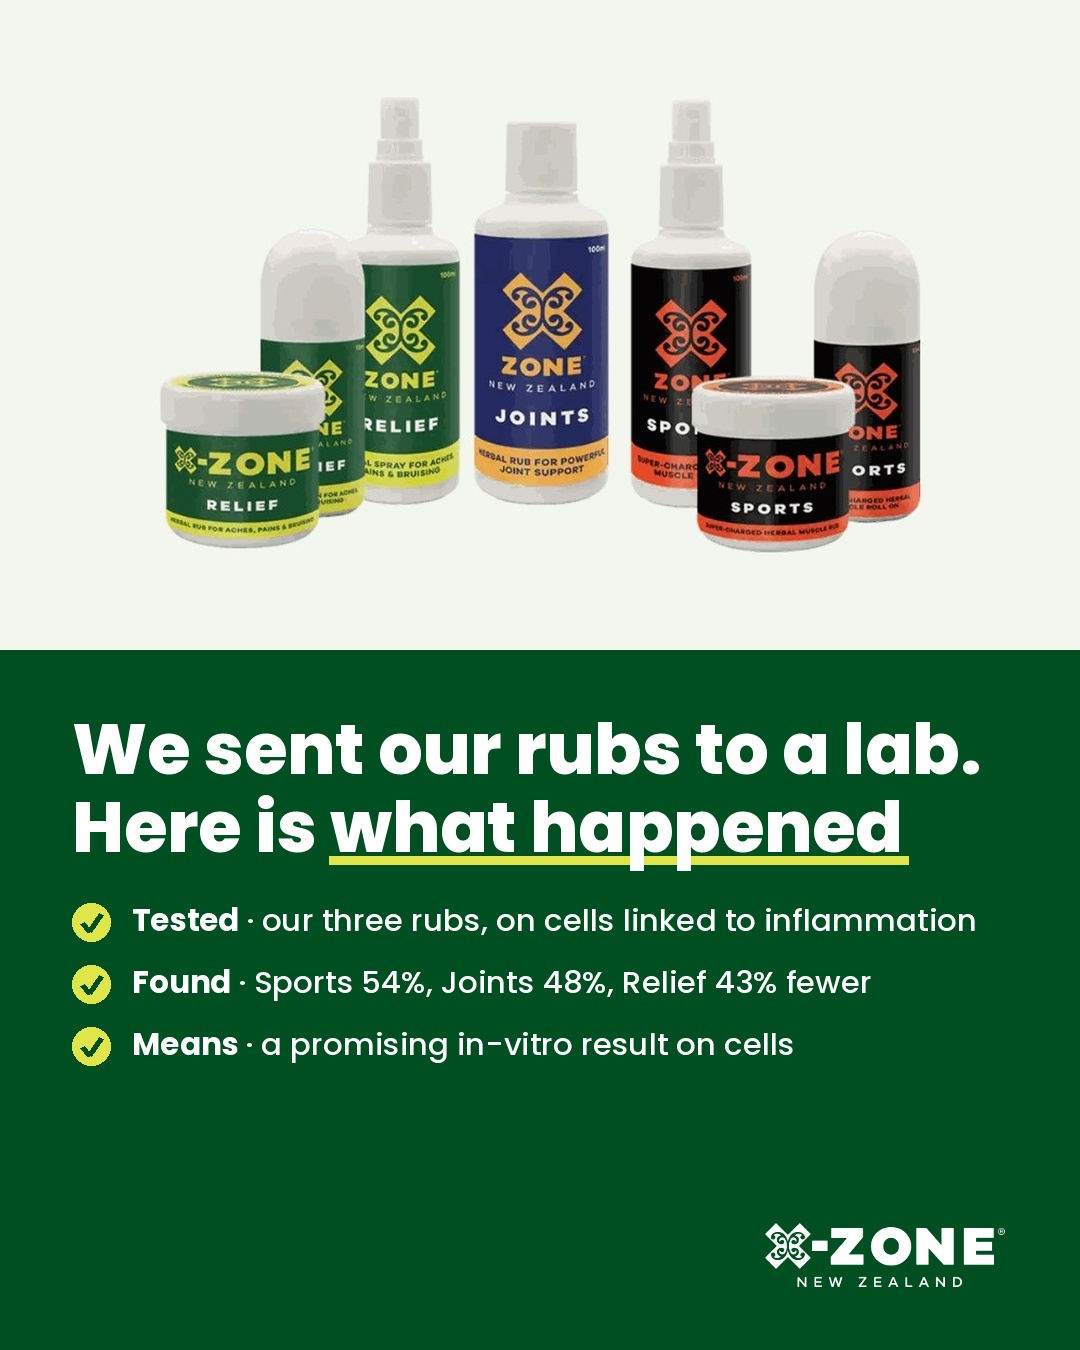
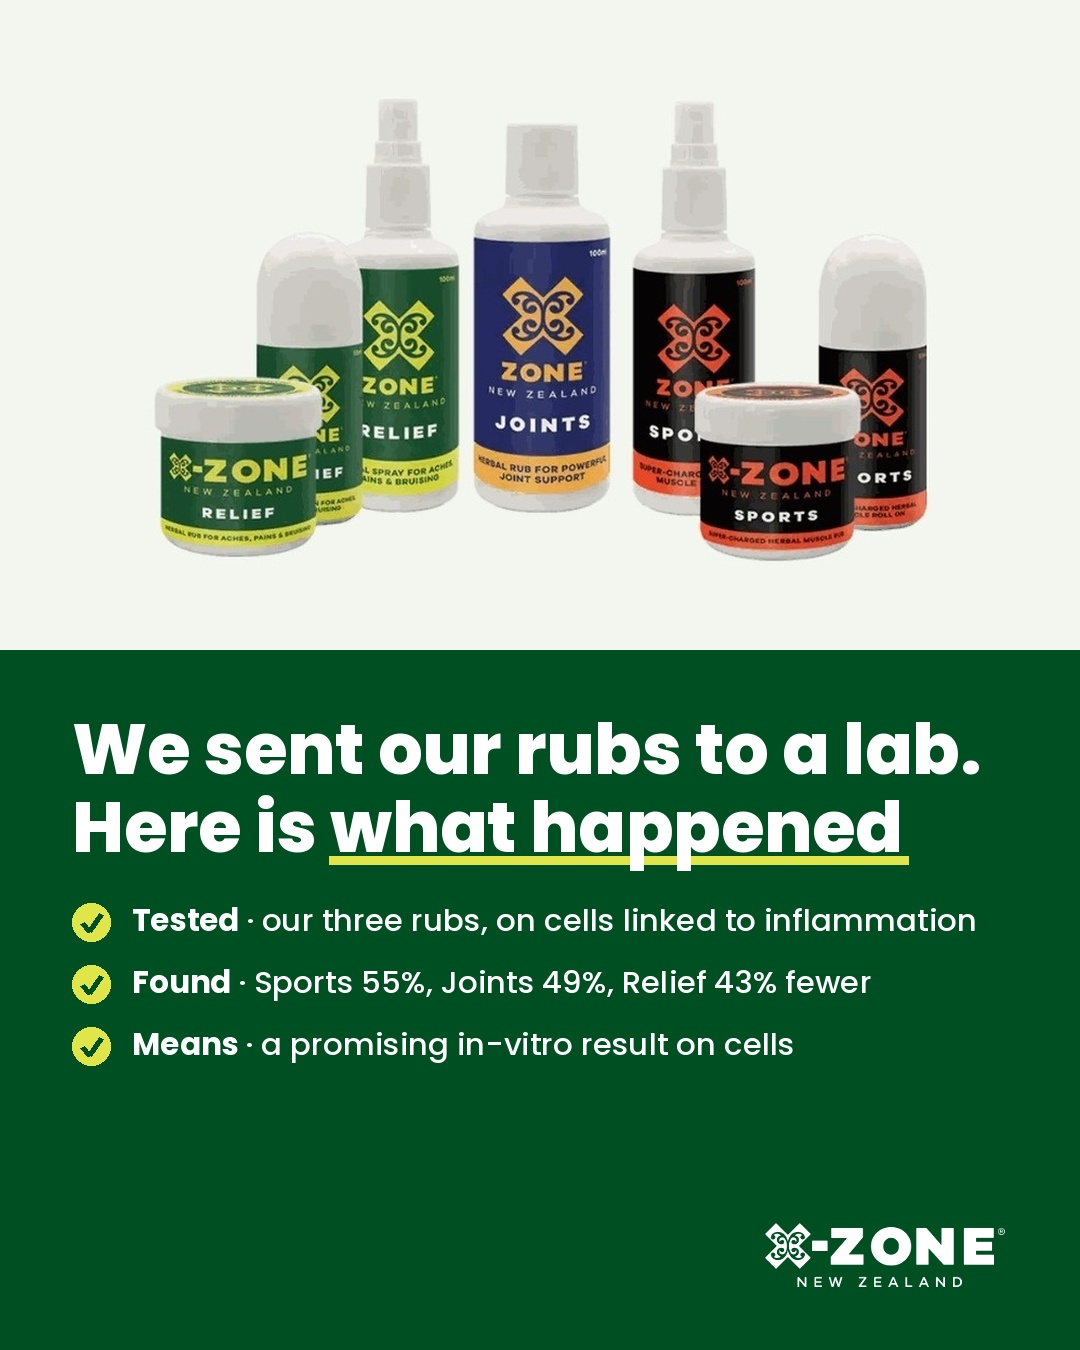
W7 lab post: round percentages up (55/49/43; COX-2 29/15) in image and captions
Claude-Session: https://claude.ai/code/session_01YP34TctdWB3JVAurNr65AT

diff --git a/tools/batch_w.py b/tools/batch_w.py
@@ -14,7 +14,7 @@ P = {
  "w5-mon": ("The herb your grandmother already knew", "grandmother", "Koromiko, in our Relief range.", None),
  "w5-sat": ("Is your Boxing Day ache actually thirst?", "thirst", None, [("Water first","a big glass, then sip all day"),("Then move","a gentle walk or a swim"),("Rub before bed","then let sleep do the work")]),
  "w6-fri": ("The 2027 recovery routine we actually stick to", "actually", None, [("Two easy days","walk, swim or stretch"),("Seven hours plus","when muscles repair"),("Massage sore spots","a few minutes, a little rub")]),
- "w7-wed": ("We sent our rubs to a lab. Here is what happened", "what happened", None, [("Tested","our three rubs, on cells linked to inflammation"),("Found","Sports 54%, Joints 48%, Relief 43% fewer"),("Means","a promising in-vitro result on cells")]),
+ "w7-wed": ("We sent our rubs to a lab. Here is what happened", "what happened", None, [("Tested","our three rubs, on cells linked to inflammation"),("Found","Sports 55%, Joints 49%, Relief 43% fewer"),("Means","a promising in-vitro result on cells")]),
  "w8-wed": ("Heat or ice? The honest answer", "honest answer", None, [("Ice","new knocks and swelling, first 48 hours"),("Heat","tight muscles and old aches"),("Joints","usually warm, unless hot and swollen")]),
  "w9-fri": ("The three injuries every worksite hands out", "worksite", None, [("Lower back","warm up, keep loads close"),("Tennis elbow","ease the grip, massage the forearm"),("Shoulders","break up overhead work")]),
 }
